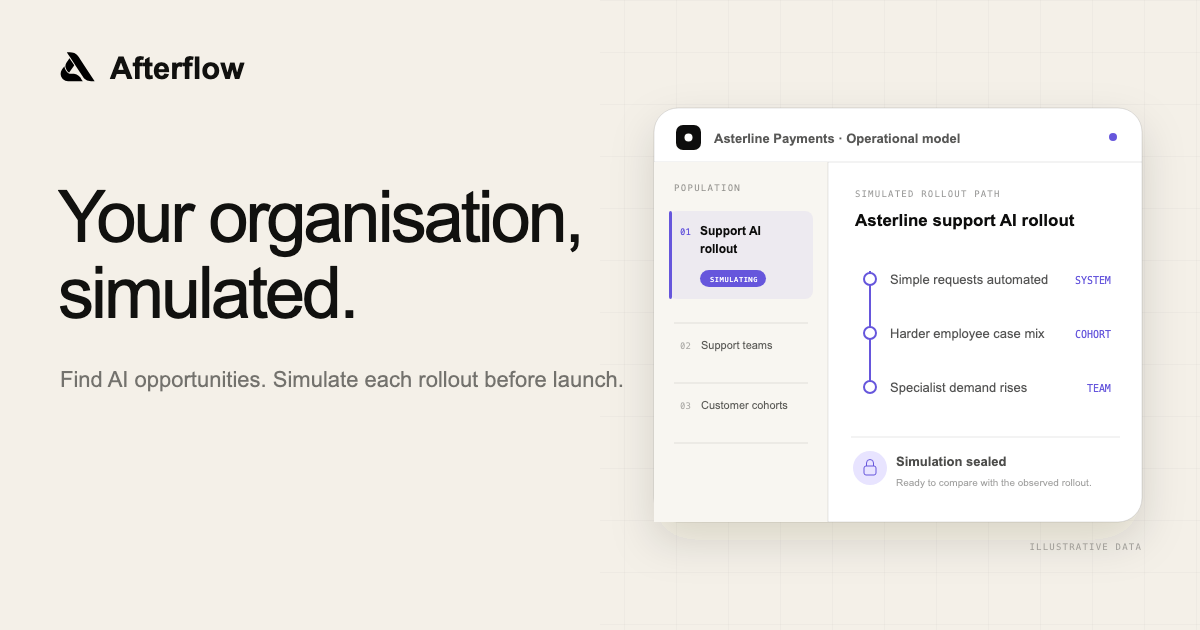
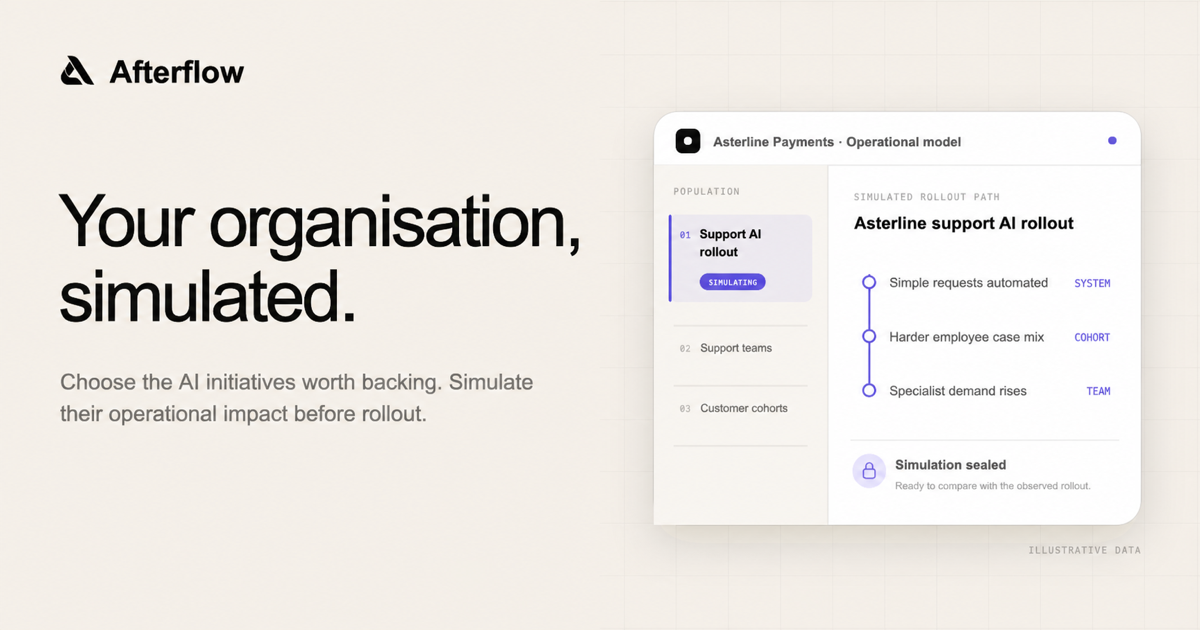
social

diff --git a/app/layout.tsx b/app/layout.tsx
@@ -11,6 +11,8 @@ import {
   siteOrigin,
   siteRootUrl,
   siteTitle,
+  socialDescription,
+  socialTitle,
 } from "./lib/site";
 import {
   bingSiteVerification,
@@ -40,8 +42,7 @@ const strawford = localFont({
   ],
 });
 
-const socialImageAlt =
-  "Afterflow simulates how enterprise AI rollouts affect an organisation before launch.";
+const socialImageAlt = `${socialTitle} ${socialDescription}`;
 
 const verification =
   googleSiteVerification || bingSiteVerification
@@ -66,8 +67,8 @@ export const metadata: Metadata = {
   authors: [{ name: siteName, url: siteRootUrl }],
   verification,
   openGraph: {
-    title: siteTitle,
-    description: siteDescription,
+    title: socialTitle,
+    description: socialDescription,
     type: "website",
     siteName,
     locale: "en_US",
@@ -84,8 +85,8 @@ export const metadata: Metadata = {
   },
   twitter: {
     card: "summary_large_image",
-    title: siteTitle,
-    description: siteDescription,
+    title: socialTitle,
+    description: socialDescription,
     images: [{ url: ogImagePath, alt: socialImageAlt }],
   },
   icons: {
@@ -179,8 +180,8 @@ export default function RootLayout({
       {
         "@id": serviceId,
         "@type": "Service",
-        name: "Afterflow enterprise AI rollout simulation",
-        serviceType: "Enterprise AI rollout simulation",
+        name: "Afterflow operational impact simulation for AI initiatives",
+        serviceType: "AI operational impact simulation",
         url: siteRootUrl,
         description: siteDescription,
         provider: {

diff --git a/app/lib/site.ts b/app/lib/site.ts
@@ -24,9 +24,12 @@ export const logoUrl = new URL(
 export const siteName = "Afterflow";
 export const companyLegalName = "Afterflow Inc.";
 export const siteTitle =
-  "Afterflow | Simulate Enterprise AI Rollouts Before Launch";
+  "Afterflow | Simulate the Operational Impact of AI";
 export const siteDescription =
-  "Afterflow uses a digital twin of your organisation to surface AI opportunities, simulate rollout effects before launch, and learn from production outcomes.";
+  "Find high-value AI opportunities or bring one from your roadmap. Simulate how each change affects the operation, then learn from every outcome.";
+export const socialTitle = "Your organisation, simulated.";
+export const socialDescription =
+  "Choose the AI initiatives worth backing. Simulate their operational impact before rollout.";
 
 export const contactEmail =
   process.env.NEXT_PUBLIC_CONTACT_EMAIL?.trim() || "mika@afterflow.dev";
